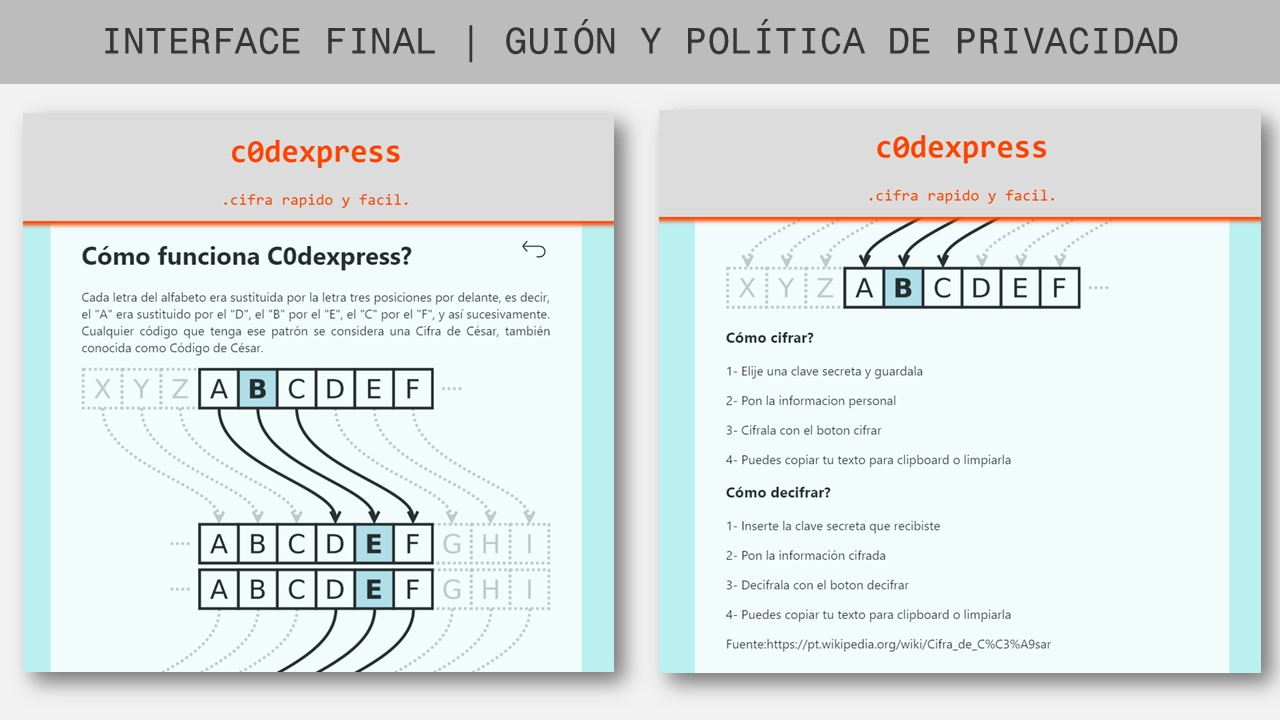
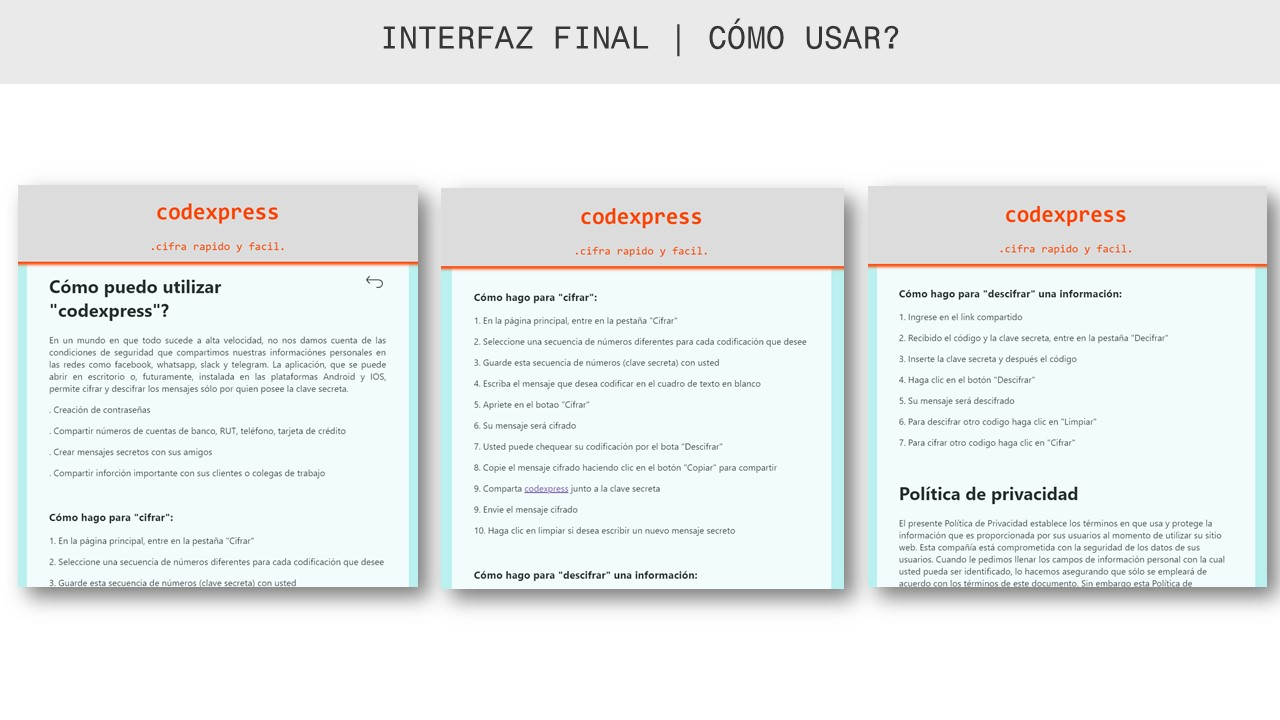
mas contenidos en index.html y css revision de readme y imagenes

diff --git a/src/index.html b/src/index.html
@@ -1,5 +1,5 @@
 <!DOCTYPE html>
-<html lang="en">
+<html lang="es">
 <head>
     <meta charset="UTF-8">
     <meta name="viewport" content="width=device-width, initial-scale=1.0">
@@ -11,44 +11,59 @@
 
 </head>
 
-<header id = "header"><h1 style="position: center">c0dexpress</h1><p>.cifra rapido y facil.</p></header>
+
 
 <body>
+
+        <header id = "header"><h1>codexpress</h1><p>.cifra rapido y facil.</p></header>
 <!-- Pantalla principal  -->
 <!-- <header class="header">[codexpress]</header>  -->
 <div id="welcome" class="welcome" style="display: block">
-    
-        <h2>Envia informaciones personales con más seguridad</h2>
+    <h1>"¿Y si pudiéramos compartir nuestras informaciones personales de la manera más segura, rápida y fácil posible?"</h1>
+    <br>
+        <h3>Codexpress es una aplicación que va a hacer tu día a día más seguro, cifrando y compartiendo información importante con quien quieras.</h3>
         <br>
-        <br>
-            <button id= "btInfosCode" class="buttonStart"><h2>Guión</h2><img src="https://image.flaticon.com/icons/svg/1902/1902760.svg" height="100px"></button>
-            <button id= "btCodePage1" class="buttonStart"><h2>Cifra</h2><img src="https://image.flaticon.com/icons/svg/1792/1792193.svg" height="100px"></button>
-            <button id= "btDecoPage1" class="buttonStart"><h2>Decifra</h2><img src="https://image.flaticon.com/icons/svg/1792/1792214.svg" height="100px"></button>
+            <button id= "btInfosCode" class="buttonStart"><h2>Cómo usar?</h2><img src="https://image.flaticon.com/icons/svg/1902/1902760.svg" height="100px" alt="como usar"></button>
+            <button id= "btCodePage1" class="buttonStart"><h2>Cifrar</h2><img src="https://image.flaticon.com/icons/svg/1792/1792193.svg" height="100px" alt="Cifrar"></button>
+            <button id= "btDecoPage1" class="buttonStart"><h2>Descifrar</h2><img src="https://image.flaticon.com/icons/svg/1792/1792214.svg" height="100px" alt="Descifrar"></button>
 </div>
 
 <!-- Pantalla explicaciones sobre como funciona / seguridad -->
 <div id="infosCeasar" class="infos" style="display: none">
-    <button id= "btBackWelcome" class="buttonBack"><img src="https://image.flaticon.com/icons/svg/263/263085.svg" height="30px" style="float: right "></button>
-    <h1>Cómo funciona C0dexpress?</h1>
-    <p> Cada letra del alfabeto era sustituida por la letra tres posiciones por delante, es decir,
-        el "A" era sustituido por el "D", el "B" por el "E", el "C" por el "F", y así sucesivamente.
-        Cualquier código que tenga ese patrón se considera una Cifra de César,
-        también conocida como Código de César.</p> 
-        <img src="https://upload.wikimedia.org/wikipedia/commons/thumb/2/2b/Caesar3.svg/1200px-Caesar3.svg.png" width="600px">
-        <img src="https://upload.wikimedia.org/wikipedia/commons/thumb/4/4a/Caesar_cipher_left_shift_of_3.svg/1200px-Caesar_cipher_left_shift_of_3.svg.png" width="600px">
-       
-        <h3>Cómo cifrar?</h3>
-        <p>1- Elije una clave secreta y guardala</p>
-        <p>2- Pon la informacion personal </p>
-        <p>3- Cifrala con el boton cifrar</p>
-        <p>4- Puedes copiar tu texto para clipboard o limpiarla</p>
-        <h3>Cómo decifrar?</h3>
-        <p>1- Inserte la clave secreta que recibiste</p>
-        <p>2- Pon la información cifrada </p>
-        <p>3- Decifrala con el boton decifrar</p>
-        <p>4- Puedes copiar tu texto para clipboard o limpiarla</p>
-        <p>Fuente:https://pt.wikipedia.org/wiki/Cifra_de_C%C3%A9sar</p>
-
+    <button id= "btBackWelcome" class="buttonBack"><img src="https://image.flaticon.com/icons/svg/263/263085.svg" height="30px" style="float: right" alt="backHome"></button>
+    
+    <h1 style="text-align: left">Cómo puedo utilizar "codexpress"?</h1>
+    <p style="text-align: justify">En un mundo en que todo sucede a alta velocidad, no nos damos cuenta de las condiciones de seguridad que compartimos nuestras 
+        informaciónes personales en las redes como facebook, whatsapp, slack y telegram. La aplicación, que se puede 
+        abrir en escritorio o, futuramente, instalada en las plataformas Android y IOS, permite cifrar y descifrar los 
+        mensajes sólo por quien posee la clave secreta.</p>
+    <p>. Creación de contraseñas</p>
+    <p>. Compartir números de cuentas de banco, RUT, teléfono, tarjeta de crédito</p>
+    <p>. Crear mensajes secretos con sus amigos</p>
+    <p>. Compartir inforción importante con sus clientes o colegas de trabajo</p>
+    <br>
+        <h3 style="text-align: left">Cómo hago para "cifrar":</h3>
+        <p>1. En la página principal, entre en la pestaña "Cifrar"</p>
+        <p>2. Seleccione una secuencia de números diferentes para cada codificación que desee</p>
+        <p>3. Guarde esta secuencia de números (clave secreta) con usted</p>
+        <p>4. Escriba el mensaje que desea codificar en el cuadro de texto en blanco</p>
+        <p>5. Apriete en el botao "Cifrar"</p>
+        <p>6. Su mensaje será cifrado</p>
+        <p>7. Usted puede chequear su codificación por el bota "Descifrar"</p>
+        <p>8. Copie el mensaje cifrado haciendo clic en el botón "Copiar" para compartir</p>
+        <p>9. Comparta <a href="http://carolgmonteiro.github.io/SCL010-Cipher/src/index.html">codexpress</a> junto a la clave secreta</p> 
+        <p>9. Envie el mensaje cifrado</p>
+        <p>10. Haga clic en limpiar si desea escribir un nuevo mensaje secreto</p> 
+<br>
+        <h3>Cómo hago para "descifrar" una información:</h3>
+        <p>1. Ingrese en el link compartido</p>   
+        <p>2. Recibido el código y la clave secreta, entre en la pestaña "Decifrar"</p>
+        <p>3. Inserte la clave secreta y después el código</p>
+        <p>4. Haga clic en el botón "Descifrar"</p>
+        <p>5. Su mensaje será descifrado</p>
+        <p>6. Para descifrar otro codigo haga clic en "Limpiar"</p>
+        <p>7. Para cifrar otro codigo haga clic en "Cifrar"</p>
+<br>
         <h1>Política de privacidad</h1>
         <p>El presente Política de Privacidad establece los términos en que  usa y protege la información que 
             es proporcionada por sus usuarios al momento de utilizar su sitio web. Esta compañía está 
@@ -58,28 +73,11 @@
             cambiar con el tiempo o ser actualizada por lo que le recomendamos y enfatizamos revisar continuamente 
             esta página para asegurarse que está de acuerdo con dichos cambios.</p>
            <h4>Información que es recogida</h4> 
-            <p> Nuestro sitio web podrá recoger información personal por ejemplo: Nombre,  información de contacto como 
-                su dirección de correo electrónica.</p>
+            <p> Nuestro sitio web podrá recoger información personal.</p>
            <h4>Uso de la información recogida</h4> 
            <p>Nuestro sitio web emplea la información con el fin de proporcionar el mejor servicio posible, particularmente 
             para mantener un registro de usuarios, de pedidos en caso que aplique, y mejorar nuestros productos y servicios.  
-            Es posible que sean enviados correos electrónicos periódicamente a través de nuestro sitio con ofertas especiales, 
-            nuevos productos y otra información publicitaria que consideremos relevante para usted o que pueda brindarle algún beneficio, 
-            estos correos electrónicos serán enviados a la dirección que usted proporcione y podrán ser cancelados en cualquier momento.
-            está altamente comprometido para cumplir con el compromiso de mantener su información segura. Usamos los sistemas más 
-            avanzados y los actualizamos constantemente para asegurarnos que no exista ningún acceso no autorizado.</p>
-            <h4>Cookies</h4>  
-            <p>Una cookie se refiere a un fichero que es enviado con la finalidad de solicitar permiso para almacenarse 
-            en su ordenador, al aceptar dicho fichero se crea y la cookie sirve entonces para tener información respecto al tráfico web, 
-            y también facilita las futuras visitas a una web recurrente. Otra función que tienen las cookies es que con ellas las web 
-            pueden reconocerte individualmente y por tanto brindarte el mejor servicio personalizado de su web.
-            Nuestro sitio web emplea las cookies para poder identificar las páginas que son visitadas y su frecuencia. Esta información 
-            es empleada únicamente para análisis estadístico y después la información se elimina de forma permanente. Usted puede eliminar 
-            las cookies en cualquier momento desde su ordenador. Sin embargo las cookies ayudan a proporcionar un mejor servicio de los 
-            sitios web, estás no dan acceso a información de su ordenador ni de usted, a menos de que usted así lo quiera y la proporcione 
-            directamente, visitas a una web . Usted puede aceptar o negar el uso de cookies, sin embargo la mayoría de navegadores aceptan 
-            cookies automáticamente pues sirve para tener un mejor servicio web. También usted puede cambiar la configuración de su 
-            ordenador para declinar las cookies. Si se declinan es posible que no pueda utilizar algunos de nuestros servicios.</p>
+            Usamos los sistemas más avanzados y los actualizamos constantemente para asegurarnos que no exista ningún acceso no autorizado.</p>
             <h4>Control de su información personal</h4>
             <p>En cualquier momento usted puede restringir la recopilación o el uso de la información personal que es proporcionada 
             a nuestro sitio web.  Cada vez que se le solicite rellenar un formulario, como el de alta de usuario, puede marcar o 
@@ -94,38 +92,38 @@
 <!-- Pantalla cifrar (elijir un offset / mensaje p codificar / botones de copiar, limpiar, decifrar ) --> 
 <div id="encodePage" style="display: none" class = "cipher">
         
-        <input type="number" id = "offsetSpace" placeholder = "Elija un número para la clave" class = "inputNumber">
-        <button id= "btEncodeMsg" class="buttonEncDec"><img src="https://image.flaticon.com/icons/svg/1792/1792193.svg" height="60px"><p>Cifrar</p></button>
+        <input type="number" id = "offsetSpace" placeholder = "Elija un número cualquier y guárdalo" class = "inputNumber">
+        <button id= "btEncodeMsg" class="buttonEncDec"><img src="https://image.flaticon.com/icons/svg/1792/1792193.svg" height="60px" alt="Cifrar"><p>Cifrar</p></button>
     
         <div class="upperBlock">
-        <textarea id="originalMsg" cols="40" rows="4" placeholder = "Escribe tu información acá" class = "textareaEn"></textarea>
+        <textarea id="originalMsg" cols="40" rows="4" placeholder = "Escribe tu información a ser cifrada acá" class = "textareaEn"></textarea>
         <textarea id="encondedMsg" cols="40" rows="4"  class = "textareaDec" placeholder = "Información cifrada"></textarea>
     </div>
     <br>
     <div class="bottomRightBlock">
-            <button id= "btDecodePage1" class="button"><img src="https://image.flaticon.com/icons/svg/1792/1792200.svg" height="40px"><p>Decifrar</p></button>
-            <button id= "btCopyMsg" class="button"><img src="https://image.flaticon.com/icons/svg/714/714539.svg" height="30px"><p>Copiar</p></button>
-            <button id= "btCleanMsg" class="button"><img src="https://image.flaticon.com/icons/svg/714/714646.svg" height="30px"><p>Limpiar</p></button>
-            <button id= "btEncoWelcome" class="button"><img src="https://image.flaticon.com/icons/svg/263/263085.svg" height="30px"><p>Volver</p></button>
+            <button id= "btDecodePage1" class="button"><img src="https://image.flaticon.com/icons/svg/1792/1792200.svg" height="40px" alt="Descifrar"><p>Descifrar</p></button>
+            <button id= "btCopyMsg" class="button"><img src="https://image.flaticon.com/icons/svg/714/714539.svg" height="30px" alt="Copiar"><p>Copiar</p></button>
+            <button id= "btCleanMsg" class="button"><img src="https://image.flaticon.com/icons/svg/714/714646.svg" height="30px" alt="Limpiar"><p>Limpiar</p></button>
+            <button id= "btEncoWelcome" class="button"><img src="https://image.flaticon.com/icons/svg/263/263085.svg" height="30px" alt="Home"><p>Home</p></button>
         </div>
 </div>
 <!-- Pantalla decifrar (elijir un offset / mensaje p codificar / botones de copiar, limpiar, cifrar ) -->   
 <div id="decodePage" style="display: none" class = "cipher">
-        <input type="number" id = "offsetSpace1" placeholder = "Inserta la clave que recibiste" class = "inputNumber">
-        <button id= "btDecodeMsg" class="buttonEncDec"><img src="https://image.flaticon.com/icons/svg/1792/1792214.svg" height="60px"><p>Decifrar</p></button>
+        <input type="number" id = "offsetSpace1" placeholder = "Inserta el número recibido" class = "inputNumber">
+        <button id= "btDecodeMsg" class="buttonEncDec"><img src="https://image.flaticon.com/icons/svg/1792/1792214.svg" height="60px" alt="Descifrar"><p>Descifrar</p></button>
         
 
         <div class="upperBlock">
-            <textarea id="encodedMsg1" cols="40" rows="4"  class = "textareaDec" placeholder = "Información cifrada"></textarea>
+            <textarea id="encodedMsg1" cols="40" rows="4"  class = "textareaDec" placeholder = "Inserta la información cifrada acá"></textarea>
             <textarea id="decodedMsg" cols="40" rows="4"  class = "textareaEn" placeholder = "Información revelada"></textarea>
             
         </div>
         <br>
         <div class="bottomRightBlock">
-            <button id= "btEncodePage1" class="button"><img src="https://image.flaticon.com/icons/svg/1792/1792163.svg" height="40px"><p>Cifrar</p></button>
-            <button id= "btCopyMsg1" class="button"><img src="https://image.flaticon.com/icons/svg/714/714539.svg" height="30px"><p>Copiar</p></button>
-            <button id= "btCleanMsg1" class="button"><img src="https://image.flaticon.com/icons/svg/714/714646.svg" height="30px"><p>Limpiar</p></button>
-            <button id= "btDecoWelcome" class="button"><img src="https://image.flaticon.com/icons/svg/263/263085.svg" height="30px"><p>Volver</p></button>
+            <button id= "btEncodePage1" class="button"><img src="https://image.flaticon.com/icons/svg/1792/1792163.svg" height="40px" alt="Cifrar"><p>Cifrar</p></button>
+            <button id= "btCopyMsg1" class="button"><img src="https://image.flaticon.com/icons/svg/714/714539.svg" height="30px" alt="Copiar"><p>Copiar</p></button>
+            <button id= "btCleanMsg1" class="button"><img src="https://image.flaticon.com/icons/svg/714/714646.svg" height="30px" alt="Limpiar"><p>Limpiar</p></button>
+            <button id= "btDecoWelcome" class="button"><img src="https://image.flaticon.com/icons/svg/263/263085.svg" height="30px" alt="Home"><p>Home</p></button>
         </div>  
     </div>
 

diff --git a/src/style.css b/src/style.css
@@ -18,22 +18,21 @@ body {
     width: 100%;
     height: 140px;
     text-align: center; 
-   
 }
 
 
 #welcome{
-    width: 1000px;
-    text-align: center;
+    width: 700px;
     color: #333333;
     font-family: monospace;
     font-size: 15px;
-    margin : 230px auto;
+    margin : 200px auto;
     align-items: baseline;
     opacity: 0.80;
     justify-content: center ;
     display: flex;  
     flex-flow: row wrap;
+    text-align: center;
 }
 
 
@@ -56,11 +55,11 @@ body {
 }
 
 .infos {
-    text-align: justify;
+    
     font-family: -apple-system, BlinkMacSystemFont, 'Segoe UI', Roboto, Oxygen, Ubuntu, Cantarell, 'Open Sans', 'Helvetica Neue', sans-serif;
     margin : 100px auto;
     padding: 40px;
-    height: 2600px;
+    height: 2200px;
     width : 600px;
     border-radius: 5px;
     position: relative;
@@ -115,12 +114,13 @@ body {
     outline: none;
     border-radius: 5px;
     font-family: monospace;
-    font-size: 20px;
+    font-size: 18px;
     font-style: initial;
     height: 70px;
-    width: 400px;
+    width: 370px;
     border: 2px solid #333333;
     float: inline-start;
+    padding: 10px;
 }
 
 

diff --git a/README.md b/README.md
@@ -1,9 +1,9 @@
 ## **C0DEXPRESS: cifra y comparta mensajes importantes rapido y facil** 
 
-En un mundo en que todo sucede a alta velocidad, no nos damos cuenta de las condiciones de seguridad que compartimos nuestras informaciónes personales en las redes como facebook, whatsapp, slack y telegram. Enviamos cuentas de banco, RUT o números de tarjeta de crédito sin saber si estamos en un ambiente seguro. 
+En un mundo en que todo sucede a alta velocidad, no nos damos cuenta de las condiciones de seguridad que compartimos nuestras informaciónes personales en las redes como facebook, whatsapp, slack y telegram. Enviamos cuentas de banco, RUT o números de tarjeta de crédito y contraseñas sin saber si estamos en un ambiente seguro y seguridad de quien las vay recibir. 
 **¿Y si pudiéramos compartir estas informaciones solamente con quien la solicitó y de la manera más segura posible, rápido y fácil?**
 
-**C0dexpress**, como dice el nombre, permite que esta información tan importante sea más segura utilizando, como ejemplo la Cifra Cesar. La aplicación, que se puede abrir en escritorio o instalada en las **plataformas Android y IOS**, permite cifrar y descifrar los mensajes sólo por quien posee la clave secreta, que consiste en un número a ser escogido por la persona que va a codificar.
+**C0dexpress** permite que estas informaciones tan importantes sean compartidas con más segura utilizando, por ejemplo, la Cifra Cesar. La aplicación, que se puede abrir en escritorio o, futuramente, instalada en las **plataformas Android y IOS**, permite cifrar y descifrar los mensajes sólo por quien posee la clave secreta, que consiste en un número a ser escogido por la persona que va a codificar.
 
 Esta herramienta es para *personas con la vida muy ágil y digital*, que utilizan las redes sociales como principales medios de comunicación en sus cotidianos. Que comparten informaciones importantes con sus clientes, amigos o familia.
 
@@ -15,7 +15,7 @@ En un primero momento, Codexpress es basado en el Cifrado César, un tipo de cri
 
 ## **Decisiones de Diseño y interacción con el usuário**
 
-Como concepto principal de diseño, fue pensado en la agilidad, camino intuitivo y interfaz atractiva y leve, similar a las actuales redes sociales.
+Como concepto principal de diseño, fue pensado en amigabilidad y sencillez, con interfaz minimalista, atractiva y leve, similar a las actuales redes sociales.
 
 #### **Diagrama de flujo**
 
@@ -31,21 +31,21 @@ Después de trabajar la circulación entre pantallas, el prototipo de baja fidel
 ![prototipo2](img/CODEXPRESS_prototipoCifrar.JPG)
 ![prototipo3](img/CODEXPRESS_prototipoDecifrar.JPG)
 
-#### **Investigación de sitios web y definicion del lenguaje de interface**
+#### **Investigación de sitios web y definicion del lenguaje de interfaz**
 
 La investigación de referencias fue enfocada en empresas y aplicaciones que reflejen agilidad, tranquilidad, frescor y tecnología: las nuevas fintechs, que con su *agilidad y practicidad* conquistaron muchos usuarios, los traductores de lenguas más practicos y finalmente las redes sociales que ya son parte fundamental de las interacciones sociales actualmente. 
 
 ![referentes](img/CODEXPRESS_referentes.JPG)
 
-Los colores *naranja y turquesa* fueron los elegidos como principales, siendo complementarios junto a colores más neutros como el gris y naranja claro, *trayendo frescor, tranquilidad y amistad*.
-Para estudio de colores fue utilizadas herramientas digitales de paleta de colores cómo "paletton.com", "coolors.co" y "colorzilla".
+Los colores *naranja y turquesa* fueron los elegidos como principales, siendo complementarios junto a colores más neutros como el gris y naranja claro, *trayendo sensación de amistad, sencillez, frescor y tranquilidad*para quien lo use. La fuente "Monospace" fue elejida para remitir a la idea de codigo.
+Para estudio de colores fue utilizadas herramientas digitales de paleta de colores cómo "paletton.com", "coolors.co", "colorzilla" y "GoogleFonts".
 
 ![colores](img/CODEXPRESS_paletaColores.JPG)
 
-#### **Tests intermedio con el usuário**
+#### **Primero Test de usabilidad con el usuário**
 
 Antes de llegar a una versión final, se recibieron algunos comentarios de usuarios, observando su reacción y relación con los colores, la estetica y funcionalidades: 
-- Fuertes identificaciones con los colores y fuentes escogidas - confianza, tranquilidad y sensación de armonía y frescor. 
+- Fuertes identificaciones con los colores y fuentes escogidas - amigabilidad, confianza, tranquilidad y sensación de armonía y frescor. 
 - Necesidad de aumentar las fuentes y iconos. 
 - Diferenciar los iconos cifrar y descifrar .
 - Diferenciar mejor lo que es la funcion de cifrado y lo que es navegación, con sugerencia de cambio de posicionamento de los botones y áreas de texto para que quedara más responsivo.
@@ -55,47 +55,47 @@ Antes de llegar a una versión final, se recibieron algunos comentarios de usuar
 
 ***
 
-## **Interface Final**
+## **Interfaz Final**
 
 Después de las pruebas, se hicieron ultimas modificaciones en la interfaz, que ya configura su versión final.
 
 
 #### **Pantalla principal**
 
-En la pantalla principal, el usuario puede elijir se quiere acceder al guión , cifrar o decifrar su información, a través de botones interactivos e iconos atractivos que se relacionan con sus funciones.
+En la pantalla principal, el usuario puede elijir se quiere acceder al "Cómo usar?" , "cifrar" o "descifrar" su información, a través de botones interactivos e iconos atractivos que se relacionan con sus funciones. Todavia la aplicación no está responsiva para los equipos muebles.
 
 ![home](img/CODEXPRESS_finalHome.JPG)
 ***
 
-#### **Guión para el usuário**
+#### **Instrucciones de uso para el usuário**
 
-Nesta sección el usuario encontrará las informaciones sobre el cifrado Cesar, instrucciones de uso y politica de privacidad del usuario, trayendo más confianza y seriedad a la aplicación, con la posibilidad de volver a la pantalla principal.
+Nesta sección "Cómo usar?", el usuario encontrará las informaciones sobre las posibilidades de cómo utilizar la herramienta, instrucciones de uso y politica de privacidad del usuario, con explicación didáctica, trayendo más confianza y seriedad a la aplicación.
 
 ![guion](img/CODEXPRESS_finalGuion.JPG)
 
 
-#### **Cifrando y decifrando las informaciones personales**
+#### **Cifrando y descifrando las informaciones personales**
 
 Para el desarrollo del diseño de las secoes cifrar y descifrar, se realizaron algunas pruebas con usuarios para observar
 - **Clave secreta** - Elegir un desplazamiento (la clave que al cifrar, debe ser guardada), o insertar la clave recibida, indicando cuántas posiciones queremos que el cifrado desplace cada caracter.
-- **Insertar texto** - Insertar un mensaje (texto) a cifrar o decifrar.
+- **Insertar texto** - Insertar un mensaje (texto) a cifrar o descifrar.
 - **Resultado final** - Información cifrada o decifrada.
 
 ![cifrada](img/CODEXPRESS_finalCifrar.JPG)
-![decifrada](img/CODEXPRESS_finalDecifrar.JPG)
+![descifrada](img/CODEXPRESS_finalDecifrar.JPG)
 
 - La funccion copiar para clipboard para que el usuario comparta el mensaje.
-- Funcción limpiar para cifrar o decifrar outro texto.
+- Funcción limpiar para cifrar o descifrar outro texto.
 - Volver a pantalla principal
 - Interacción Cifrar o decifrar - despues que cumplir con cifrar, por ejemplo, el usuario puede directamente ir a pantalla decifrar, tenendo sus *informaciones automaticamente copiadas*. Lo mismo ocurre inversamente.
 
 ![interaccion](img/CODEXPRESS_interaccionCD.jpg)
 
 #### **Tests con usuário final**
-Para prueba final, hicimos un test de usabilidad que muestra que la aplicación parece simples de manejar, con caminos intuitivos de manera general. En el guión, las instrucciones parecen clara y la politica de privacidad se muestra más como una formalidad, pero que nadie tiene tiempo para leerla. 
+Para prueba final, hicimos un test de usabilidad que muestra que la aplicación parece simples de manejar, con caminos intuitivos de manera general. En el "Cómo usar?", El usuario pedio más informaciones acerca de cómo utilizar la información y sus posibilidades, que fue añadido en nueva revisión. Entonces las instrucciones pareceron más claras y la politica de privacidad se muestró más como una formalidad  que nadie tiene tiempo para leerla. 
 
-Para las funciones cifrar y decifrar, los iconos estan de facil compreensión y el efecto que aumenta el botón al pasar el mouse arriba, es algo entretenido para el usuario. Las funcciones cifrar y decifrar estan funcionando correctamente. Además, le gusta la funcción copiar para el clipboard y la interacción que copia automaticamente las informaciones entre cifrar y decifrar es algo que el usuario le gusta.
-** Vídeo del test final de usabilidad [codexpress test final usabilidad](https://youtu.be/l1_V9LJx1Cs)
+Para las funciones cifrar y descifrar, los iconos estan de facil compreensión y el efecto que aumenta el botón al pasar el mouse arriba, es algo entretenido para el usuario. Las funcciones cifrar y decifrar estan funcionando correctamente. Además, le gusta la funcción copiar para el clipboard y la interacción que copia automaticamente las informaciones entre cifrar y descifrar es algo que el usuario le gusta.
+** Vídeo del test final de usabilidad [codexpress test de usabilidad](https://www.loom.com/share/466c2b5715cb47be9936c2e8d556f81e)
 
 #### **Cómo acceder a la aplicación**
 
@@ -106,7 +106,7 @@ Link para la aplicación:
 
 - HTML5 (Estructura principal - divs, botones, textos)
 - JavaScript (interacción - funciones encode / decode, eventListener, getElementById)
-- CSS (interface - layout, colores, fuentes, espaciamentos, efectos)
+- CSS (interfaz - layout, colores, fuentes, espaciamentos, efectos)
 ![pruebas](img/CODEXPRESS_testeos.jpg)
 
 ***
